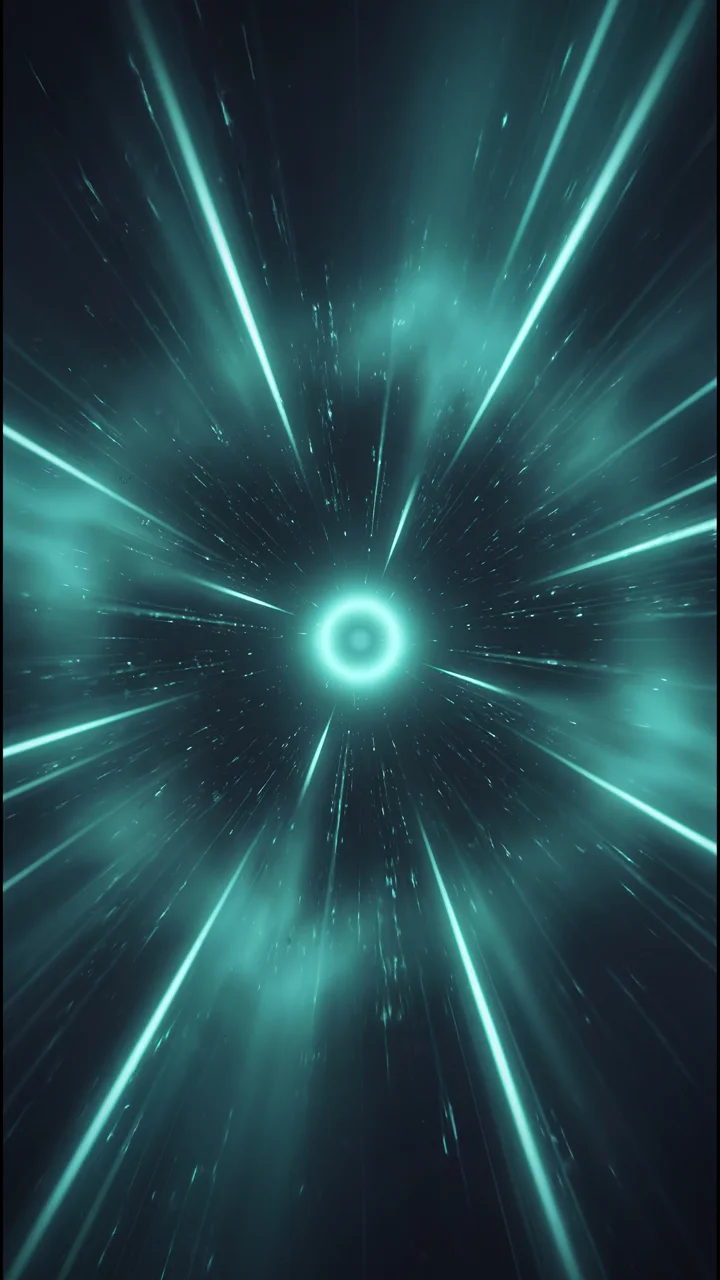
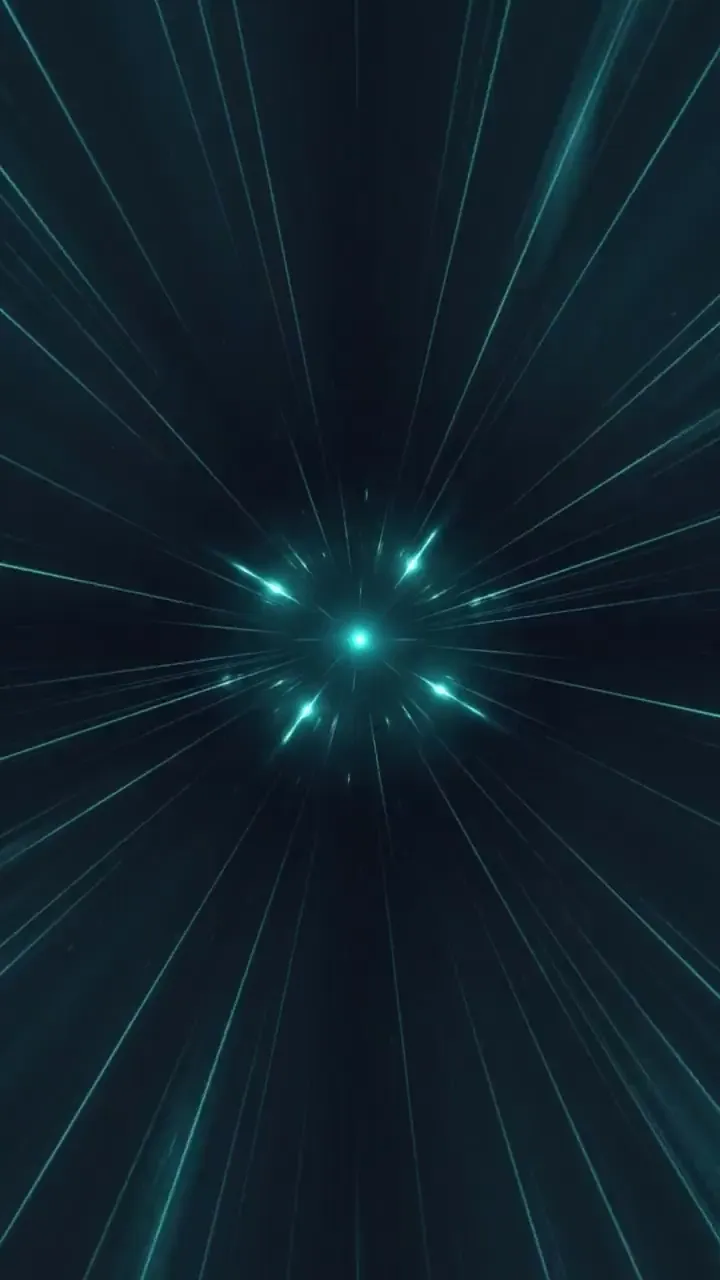
Preloader: nuevo warp hero (Higgsfield nano_banana_pro keyframe + Kling 3.0 pro) — laser teal fino, mas velocidad, mas sobrio y pegado a los oscuros del app; 720x1280 5s H.264 ~1.3MB; barra del loader a 4.5s

diff --git a/src/v2/ui/LaunchSequence.tsx b/src/v2/ui/LaunchSequence.tsx
@@ -155,7 +155,7 @@ export function LaunchSequence() {
                 className="h-full rounded-full bg-teal"
                 initial={{ width: '6%' }}
                 animate={{ width: '100%' }}
-                transition={{ duration: 7, ease: 'easeInOut' }}
+                transition={{ duration: 4.5, ease: 'easeInOut' }}
               />
             </div>
           )}